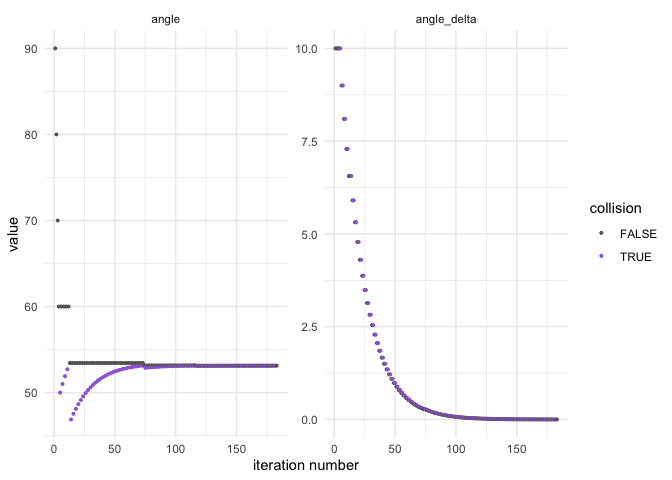
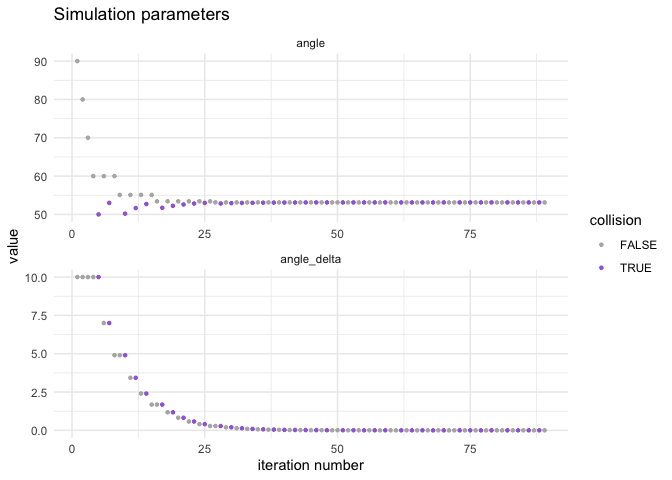
Riddler: Can You Roll The Perfect Bowl? (complete)

diff --git a/2020-05-30_perfect-bowl.md b/2020-05-30_perfect-bowl.md
@@ -71,6 +71,7 @@ library(tidyverse)
 
 theme_set(theme_minimal())
 
+# Some standard colors used throughout
 green <- "#54c761"
 red <- "#c75454"
 purple <- "#a06bdb"
@@ -82,22 +83,22 @@ set.seed(0)
 
 ## Simulate a single pass
 
-``` r
-# Make a green ball location from the x-position and angle.
-make_green_ball <- function(h, angle) {
-    x <- -1 * h * cos(pi/2 - angle)
-    y <- h * sin(pi/2 - angle)
-    list(x = x, y = y)
-}
-```
+I split the code into two pieces. The first simulates a bowl with a
+given angle, and the second decides on the angle to narrow down the
+approximation. The following functions take care of the first part:
+simulating a bowl.
 
-``` r
-# Decide wether the two balls of radius `r` collided.
-did_balls_collide <- function(ball1, ball2, radius) {
-    d <- sqrt((ball1$x - ball2$x)^2 + (ball1$y - ball2$y)^2)
-    return(d <= 2*radius)
-}
-```
+A single simulation can be run by calling `run_bowl_simulation()` with
+an angle (in degrees). The function works by changing the hypotenuse,
+starting with `h_start = 5` and decreasing it to 0 by `step_size` steps
+(the steps are held in the numeric vector `h_vals`). The actual position
+of the ball is calculated from the length of the hypotenuse and angle
+with a bit of trigonometry in `make_green_ball()`. For each hypotenuse
+value, the green ball is positioned and then tested to see if it
+collides with the red ball (set at \((x,y) = (0,2.5)\) as per the
+riddle) using the function `did_balls_collide()`. This information is
+recorded by building a single data frame with the data for each step of
+the simulation. The data frame is returned at the end of the simulation.
 
 ``` r
 # Run a simulation of the bowling game.
@@ -126,6 +127,31 @@ run_bowl_simulation <- function(angle,
 ```
 
 ``` r
+# Make a green ball location from the x-position and angle.
+make_green_ball <- function(h, angle) {
+    x <- -1 * h * cos(pi/2 - angle)
+    y <- h * sin(pi/2 - angle)
+    list(x = x, y = y)
+}
+```
+
+``` r
+# Decide wether the two balls of radius `r` collided.
+did_balls_collide <- function(ball1, ball2, radius) {
+    d <- sqrt((ball1$x - ball2$x)^2 + (ball1$y - ball2$y)^2)
+    return(d <= 2*radius)
+}
+```
+
+Below are the results from running the simulation at angles between 90
+degrees (horizontal) and 0 degrees (vertical) at 10 degree increments.
+Each line is an individual simulation, and each point is a round of the
+simulation. A red ball is positioned as per the riddle, and the purple
+points indicate where the green ball would collide with the red ball.
+These example simulations show that the `run_bowl_simulation()` function
+is working as expected.
+
+``` r
 map(seq(90, 0, -10), run_bowl_simulation, step_size = 0.1) %>%
     map2(seq(90, 0, -10), ~ .x %>% add_column(angle = .y)) %>%
     bind_rows() %>%
@@ -148,6 +174,35 @@ map(seq(90, 0, -10), run_bowl_simulation, step_size = 0.1) %>%
 
 ![](2020-05-30_perfect-bowl_files/figure-gfm/unnamed-chunk-4-1.png)<!-- -->
 
+## Find the smallest angle
+
+The second part of the code is to find the smallest (narrowest) angle at
+which there is no collision. Instead of trying every angle between 90
+degrees and 0 degrees at some very small increment, I approach this
+problem a bit more efficiently. I built an algorithm than starts at 90
+degrees and takes large steps until there is an angle that causes a
+collision. It then takes a step back an tries again with a progressively
+smaller step, until it no longer collides. This continues with the step
+size getting smaller and smaller. The algorithm stops when the step size
+is small enough for a good approximation and the angle does not cause a
+collision. The code chunk below carries out this process, printing the
+information for each pass.
+
+The purpose of the `angle` and `previous_angle` parameters are fairly
+obvious. The `angle_delta` parameter is the value by which the angle is
+reduced at each step. `epsilon` is used to reduce `angle_delta` when
+there are collisions at an angle. Finally, `min_angle_delta` is one of
+the stopping criteria: when `angle_delta` gets below this value, the
+algorithm is sufficiently close to the correct answer and it stops
+trying new angles. *Thus, this parameter determines the precision of the
+algorithm.* It is set relatively high for now, because this first pass
+is just a demonstration and prints out the results of each iteration.
+
+For efficiency, the while loop uses a memoised version of
+`run_bowl_simulation()` because when the balls collide, the previous
+step is tried again. Therefore, memoising the function saves some time
+instead of running the simulation from the same angle multiple times.
+
 ``` r
 # The starting angle.
 angle <- 90
@@ -155,14 +210,15 @@ previous_angle <- angle
 
 # The "learning rate" paramerters.
 angle_delta <- 10
-epsilon <- 0.8
+epsilon <- 0.5
 min_angle_delta <- 0.01
 
+# Start with TRUE, though it doesn't matter.
 collision <- TRUE
 
 memo_bowl_sim <- memoise::memoise(run_bowl_simulation)
 
-while (angle_delta >= min_angle_delta |collision) {
+while (angle_delta >= min_angle_delta | collision) {
     # Run the bowling simulation with the current angle.
     sim_res <- memo_bowl_sim(angle = angle, step_size = 0.1)
     
@@ -173,7 +229,7 @@ while (angle_delta >= min_angle_delta |collision) {
     msg <- "collision: {ifelse(collision, symbol$cross, symbol$tick)}" %>%
         paste("{collision},") %>%
         paste("angle: {round(angle, 4)},") %>%
-        paste(angle_delta: {round(angle_delta, 4)})
+        paste("angle_delta: {round(angle_delta, 4)}")
     print(glue(msg))
     
     if (!collision) {
@@ -188,83 +244,54 @@ while (angle_delta >= min_angle_delta |collision) {
 }
 ```
 
-    #> collision: ✔ FALSE, angle: 90, 10
-    #> collision: ✔ FALSE, angle: 80, 10
-    #> collision: ✔ FALSE, angle: 70, 10
-    #> collision: ✔ FALSE, angle: 60, 10
-    #> collision: ✖ TRUE, angle: 50, 10
-    #> collision: ✔ FALSE, angle: 60, 8
-    #> collision: ✖ TRUE, angle: 52, 8
-    #> collision: ✔ FALSE, angle: 60, 6.4
-    #> collision: ✔ FALSE, angle: 53.6, 6.4
-    #> collision: ✖ TRUE, angle: 47.2, 6.4
-    #> collision: ✔ FALSE, angle: 53.6, 5.12
-    #> collision: ✖ TRUE, angle: 48.48, 5.12
-    #> collision: ✔ FALSE, angle: 53.6, 4.096
-    #> collision: ✖ TRUE, angle: 49.504, 4.096
-    #> collision: ✔ FALSE, angle: 53.6, 3.2768
-    #> collision: ✖ TRUE, angle: 50.3232, 3.2768
-    #> collision: ✔ FALSE, angle: 53.6, 2.62144
-    #> collision: ✖ TRUE, angle: 50.9786, 2.62144
-    #> collision: ✔ FALSE, angle: 53.6, 2.097152
-    #> collision: ✖ TRUE, angle: 51.5028, 2.097152
-    #> collision: ✔ FALSE, angle: 53.6, 1.6777216
-    #> collision: ✖ TRUE, angle: 51.9223, 1.6777216
-    #> collision: ✔ FALSE, angle: 53.6, 1.34217728
-    #> collision: ✖ TRUE, angle: 52.2578, 1.34217728
-    #> collision: ✔ FALSE, angle: 53.6, 1.073741824
-    #> collision: ✖ TRUE, angle: 52.5263, 1.073741824
-    #> collision: ✔ FALSE, angle: 53.6, 0.8589934592
-    #> collision: ✖ TRUE, angle: 52.741, 0.8589934592
-    #> collision: ✔ FALSE, angle: 53.6, 0.68719476736
-    #> collision: ✖ TRUE, angle: 52.9128, 0.68719476736
-    #> collision: ✔ FALSE, angle: 53.6, 0.549755813888
-    #> collision: ✖ TRUE, angle: 53.0502, 0.549755813888
-    #> collision: ✔ FALSE, angle: 53.6, 0.4398046511104
-    #> collision: ✔ FALSE, angle: 53.1602, 0.4398046511104
-    #> collision: ✖ TRUE, angle: 52.7204, 0.4398046511104
-    #> collision: ✔ FALSE, angle: 53.1602, 0.35184372088832
-    #> collision: ✖ TRUE, angle: 52.8084, 0.35184372088832
-    #> collision: ✔ FALSE, angle: 53.1602, 0.281474976710656
-    #> collision: ✖ TRUE, angle: 52.8787, 0.281474976710656
-    #> collision: ✔ FALSE, angle: 53.1602, 0.225179981368525
-    #> collision: ✖ TRUE, angle: 52.935, 0.225179981368525
-    #> collision: ✔ FALSE, angle: 53.1602, 0.18014398509482
-    #> collision: ✖ TRUE, angle: 52.9801, 0.18014398509482
-    #> collision: ✔ FALSE, angle: 53.1602, 0.144115188075856
-    #> collision: ✖ TRUE, angle: 53.0161, 0.144115188075856
-    #> collision: ✔ FALSE, angle: 53.1602, 0.115292150460685
-    #> collision: ✖ TRUE, angle: 53.0449, 0.115292150460685
-    #> collision: ✔ FALSE, angle: 53.1602, 0.0922337203685479
-    #> collision: ✖ TRUE, angle: 53.068, 0.0922337203685479
-    #> collision: ✔ FALSE, angle: 53.1602, 0.0737869762948383
-    #> collision: ✖ TRUE, angle: 53.0864, 0.0737869762948383
-    #> collision: ✔ FALSE, angle: 53.1602, 0.0590295810358706
-    #> collision: ✖ TRUE, angle: 53.1012, 0.0590295810358706
-    #> collision: ✔ FALSE, angle: 53.1602, 0.0472236648286965
-    #> collision: ✖ TRUE, angle: 53.113, 0.0472236648286965
-    #> collision: ✔ FALSE, angle: 53.1602, 0.0377789318629572
-    #> collision: ✖ TRUE, angle: 53.1224, 0.0377789318629572
-    #> collision: ✔ FALSE, angle: 53.1602, 0.0302231454903658
-    #> collision: ✖ TRUE, angle: 53.13, 0.0302231454903658
-    #> collision: ✔ FALSE, angle: 53.1602, 0.0241785163922926
-    #> collision: ✔ FALSE, angle: 53.136, 0.0241785163922926
-    #> collision: ✖ TRUE, angle: 53.1118, 0.0241785163922926
-    #> collision: ✔ FALSE, angle: 53.136, 0.0193428131138341
-    #> collision: ✖ TRUE, angle: 53.1167, 0.0193428131138341
-    #> collision: ✔ FALSE, angle: 53.136, 0.0154742504910673
-    #> collision: ✖ TRUE, angle: 53.1205, 0.0154742504910673
-    #> collision: ✔ FALSE, angle: 53.136, 0.0123794003928538
-    #> collision: ✖ TRUE, angle: 53.1236, 0.0123794003928538
-    #> collision: ✔ FALSE, angle: 53.136, 0.00990352031428306
+    #> collision: ✔ FALSE, angle: 90, angle_delta: 10
+    #> collision: ✔ FALSE, angle: 80, angle_delta: 10
+    #> collision: ✔ FALSE, angle: 70, angle_delta: 10
+    #> collision: ✔ FALSE, angle: 60, angle_delta: 10
+    #> collision: ✖ TRUE, angle: 50, angle_delta: 10
+    #> collision: ✔ FALSE, angle: 60, angle_delta: 5
+    #> collision: ✔ FALSE, angle: 55, angle_delta: 5
+    #> collision: ✖ TRUE, angle: 50, angle_delta: 5
+    #> collision: ✔ FALSE, angle: 55, angle_delta: 2.5
+    #> collision: ✖ TRUE, angle: 52.5, angle_delta: 2.5
+    #> collision: ✔ FALSE, angle: 55, angle_delta: 1.25
+    #> collision: ✔ FALSE, angle: 53.75, angle_delta: 1.25
+    #> collision: ✖ TRUE, angle: 52.5, angle_delta: 1.25
+    #> collision: ✔ FALSE, angle: 53.75, angle_delta: 0.625
+    #> collision: ✖ TRUE, angle: 53.125, angle_delta: 0.625
+    #> collision: ✔ FALSE, angle: 53.75, angle_delta: 0.3125
+    #> collision: ✔ FALSE, angle: 53.4375, angle_delta: 0.3125
+    #> collision: ✖ TRUE, angle: 53.125, angle_delta: 0.3125
+    #> collision: ✔ FALSE, angle: 53.4375, angle_delta: 0.1562
+    #> collision: ✔ FALSE, angle: 53.2812, angle_delta: 0.1562
+    #> collision: ✖ TRUE, angle: 53.125, angle_delta: 0.1562
+    #> collision: ✔ FALSE, angle: 53.2812, angle_delta: 0.0781
+    #> collision: ✔ FALSE, angle: 53.2031, angle_delta: 0.0781
+    #> collision: ✖ TRUE, angle: 53.125, angle_delta: 0.0781
+    #> collision: ✔ FALSE, angle: 53.2031, angle_delta: 0.0391
+    #> collision: ✔ FALSE, angle: 53.1641, angle_delta: 0.0391
+    #> collision: ✖ TRUE, angle: 53.125, angle_delta: 0.0391
+    #> collision: ✔ FALSE, angle: 53.1641, angle_delta: 0.0195
+    #> collision: ✔ FALSE, angle: 53.1445, angle_delta: 0.0195
+    #> collision: ✖ TRUE, angle: 53.125, angle_delta: 0.0195
+    #> collision: ✔ FALSE, angle: 53.1445, angle_delta: 0.0098
+
+From the print-out above, we can see how the algorithm jumps back an
+forth, narrowing in on a solution around 53 degrees.
+
+With that successful proof-of-concept, the following code runs the
+algorithm with a smaller `min_angle_delta = 1e-5` to achieve greater
+precision. Instead of printing out the results of each iteration, the
+simulation results and parameters are saved to `sim_results_tracker` and
+`sim_parameters_tracker`, respectively, and are inspected below.
 
 ``` r
 angle <- 90
 previous_angle <- angle
 
 angle_delta <- 10
-epsilon <- 0.9
-min_angle_delta <- 1e-3
+epsilon <- 0.7
+min_angle_delta <- 1e-5
 
 collision <- TRUE
 
@@ -294,20 +321,27 @@ while (angle_delta >= min_angle_delta | collision) {
 }
 ```
 
-Took 183 steps.
+The simulation took 89 steps. The plot below shows the angle and
+`angle_delta` at each step, colored by whether there was a collision or
+not.
 
 ``` r
 sim_parameters_tracker %>%
     mutate(row_idx = row_number()) %>%
     pivot_longer(-c(row_idx, epsilon, collision)) %>%
     ggplot(aes(x = row_idx, y = value)) +
-    facet_wrap(~ name, nrow = 1, scales = "free") +
-    geom_point(aes(color = collision), size = 0.7) + 
-    scale_color_manual(values = c(grey, purple)) +
-    labs(x = "iteration number", y = "value")
+    facet_wrap(~ name, nrow = 2, scales = "free") +
+    geom_point(aes(color = collision), size = 0.9) + 
+    scale_color_manual(values = c(light_grey, purple)) +
+    labs(x = "iteration number", 
+         y = "value",
+         title = "Simulation parameters")
 ```
 
 ![](2020-05-30_perfect-bowl_files/figure-gfm/unnamed-chunk-7-1.png)<!-- -->
+
+The following plot shows each of the paths tried, again, coloring the
+locations of collisions in purple.
 
 ``` r
 sim_results_tracker %>%
@@ -327,6 +361,9 @@ sim_results_tracker %>%
 
 ![](2020-05-30_perfect-bowl_files/figure-gfm/unnamed-chunk-8-1.png)<!-- -->
 
+Finally, we can find the approximated angle by taking the smallest angle
+tried in the rounds of simulation that did not have any collisions.
+
 ``` r
 smallest_angle <- sim_parameters_tracker %>% 
     filter(collision == FALSE) %>% 
@@ -335,7 +372,10 @@ smallest_angle <- sim_parameters_tracker %>%
     unique()
 ```
 
-**Final angle 53.13 degrees (0.927 in radians).**
+**The algorithm approximates the solution to be: 53.1301 degrees (0.9273
+in radians).**
+
+The simulation with this angle is shown in an animated plot below.
 
 ``` r
 final_result <- sim_results_tracker %>%
@@ -345,37 +385,48 @@ final_result <- sim_results_tracker %>%
 
 bind_rows(
     final_result,
-    final_result %>% 
+    final_result %>%
         mutate(x = -1 * x, y = -1 * y)
-    ) %>%
+) %>%
     mutate(row_idx = row_number()) %>%
     ggplot() +
-    geom_point(aes(x, y),
+    geom_point(aes(x = x, y = y),
                color = green, size = 2) +
     geom_circle(aes(x0 = x, y0 = y, r = 1),
-                         fill = green, alpha = 0.2, size = 0) +
+                fill = green, alpha = 0.2, size = 0) +
     geom_point(aes(x, y),
                data = tibble(x = 0, y = 2.5),
                color = red, size = 2) +
-    geom_circle(aes(x0 = x, y0 = y, r = 1),
-                data = tibble(x = 0, y = 2.5),
+    geom_circle(aes(x0 = x, y0 = y, r = r),
+                data = tibble(x = 0, y = 2.5, r = 1),
                 fill = red, alpha = 0.2, size = 0) +
     geom_point(aes(x, y),
                data = tibble(x = 0, y = -2.5),
                color = red, size = 2) +
-    geom_circle(aes(x0 = x, y0 = y, r = 1),
-                data = tibble(x = 0, y = -2.5),
+    geom_circle(aes(x0 = x, y0 = y, r = r),
+                data = tibble(x = 0, y = -2.5, r = 1),
                 fill = red, alpha = 0.2, size = 0) +
     coord_fixed() +
     labs(
-        x = "x", 
+        x = "x",
         y = "y",
         title = glue(
-             "The tighest angle of the perfect bowl: {round(smallest_angle, 3)} deg."
+             "The tightest angle of the perfect bowl: {round(smallest_angle, 3)} deg."
     )) +
-    transition_states(row_idx, transition_length = 2, 
+    transition_states(row_idx, transition_length = 2,
                       state_length = 0, wrap = FALSE) +
     ease_aes("sine-in-out")
 ```
 
 ![](2020-05-30_perfect-bowl_files/figure-gfm/unnamed-chunk-10-1.gif)<!-- -->
+
+-----
+
+## Acknowledgements
+
+Repetitive tasks were sped up using the
+[‘memoise’](https://github.com/r-lib/memoise) package for
+memoization. Plotting was accomplished using
+[‘ggplot2’](https://ggplot2.tidyverse.org),
+[‘ggforce’](https://ggforce.data-imaginist.com), and
+[‘gganimate’](https://gganimate.com).
